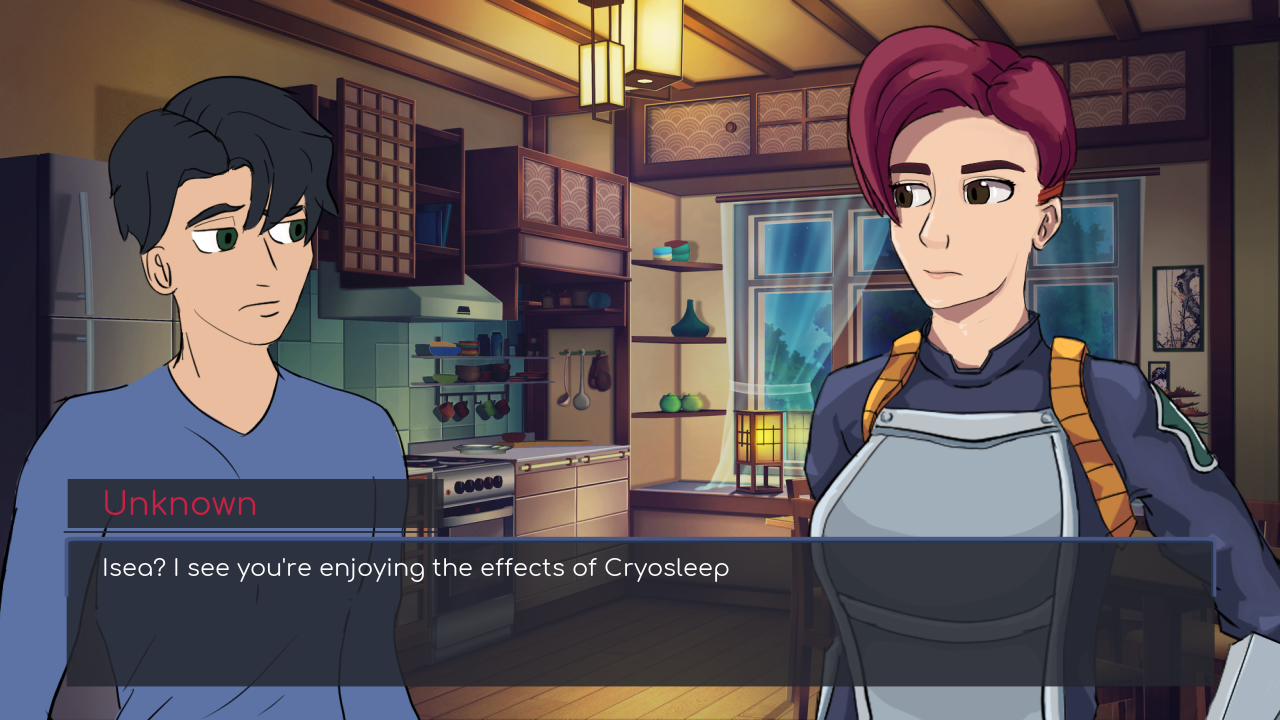
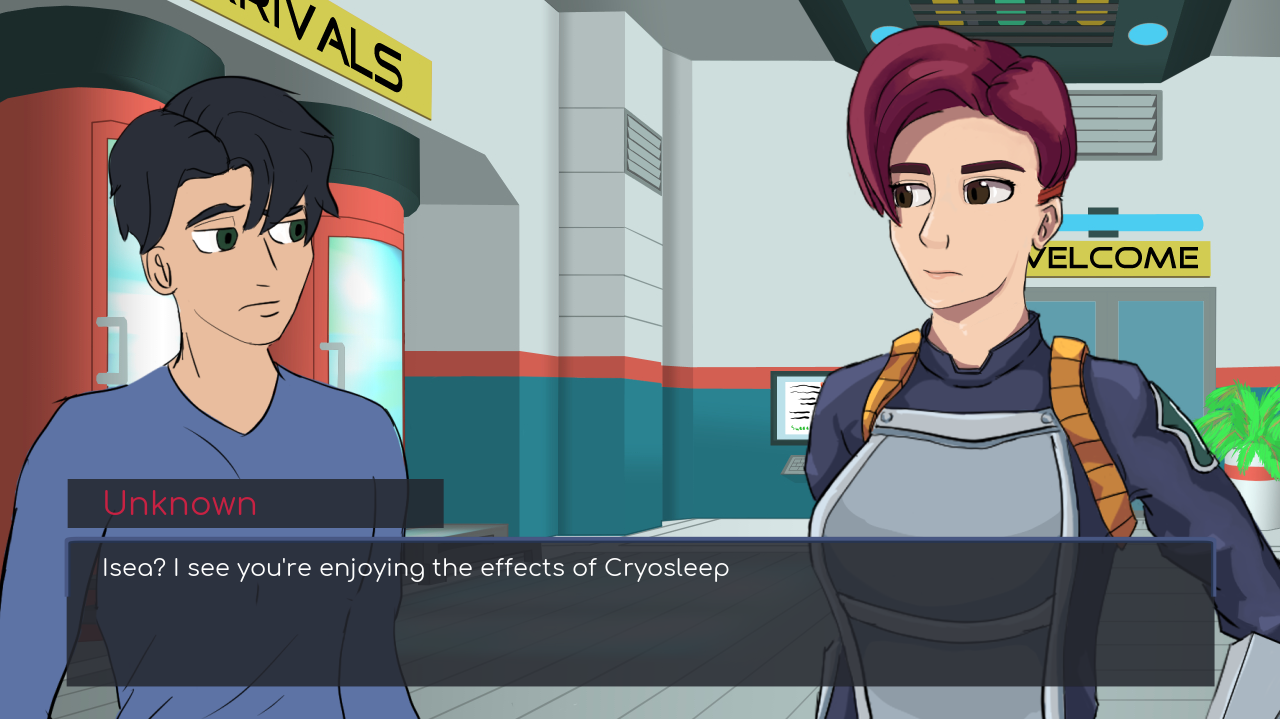
-Updating readme -Adding new progress images

diff --git a/README.md b/README.md
@@ -6,12 +6,12 @@
 *I do not own the background in the above photo, and am merely using it as a placeholder. The rightful owner is the talented:*<br/>
 *https://www.deviantart.com/aikosanartist*
 
-The GVNEngine is a visual novel / dating simulator game engine created in Python, using the PyGame framework. It is meant as a lightweight, user-friendly engine that offers a content-driven workflow that gets developers right into the action.
+The GVNEngine is a visual novel / dating simulator game engine created in Python, using the PyGame framework. It is meant as a lightweight, user-friendly engine that offers a content-driven workflow that lets developers focus more on making games, and less on worrying about coding them.
 
 # How to Use the 'GVNEngine'?
 Currently, the GVNEngine is heavily in development, and not setup for installation quite yet. However, if you're interested in playing with the engine while it's in development, please contact the developer Garrett Fredley at:<br/>
 https://twitter.com/SomeCronzaGuy (Professional Twitter) :shipit: <br/>
-https://twitter.com/Nixenneth (Private Twitter) :underage:
+https://twitter.com/Nixenneth (Artist Twitter) :art:
 
 # License
 The GVNEngine is licensed under the Open-Source MIT license. Details can be found in the `LICENSE.txt` file in `/GVNEngine`. Basically, enjoy the engine to it's fullest, and make games without worrying about whether you're allowed to muck around in the source code :smiley:
@@ -19,38 +19,86 @@ The GVNEngine is licensed under the Open-Source MIT license. Details can be foun
 # Features
 
 ## Content-Driven Workflow
-The GVNEngine uses YAML for many of it's content files. YAML is a powerful data language built around the concept of human readability. In the engine, YAML is used for all of the following things:
+The GVNEngine is designed to allow developers to focus more on developing games without worrying about knowing how to code. It makes use of a data language called YAML, which was designed for human readability to simplify the process of creating all sorts of content, such as:
+
+YAML is used to allow developers to design and implement the following types of content:
 - Scenes
 - Dialogue sequences
-- Renderables (Objects, interactables, etc)
+- Renderables (Objects, interactables, buttons, etc)
+- Effects (Fades, scene transitions, etc)
 
-The GVNEngine is designed to allow users to stick primarily to authoring content in these YAML files without having to deal with much python code. Here is an example of a Point & Click scene YAML file:
+Here is an example of a 'Point & Click' scene created using YAML:
+![ScreenShot](Progress_Examples/GVNEngine_v02_Main_Menu_Scene_01.png?raw=true "GVNEngine Main Menu Scene")
 ```
 type: 'PointAndClick'
-background: "Content/Sprites/Backgrounds/Classroom_01.jpg"
+background: "Content/Sprites/Backgrounds/Background_Space_01_1280.jpg"
 
 interactables:
-  - data: "Content/Objects/Brown_Bag.yaml"
+  - type: "button"
+    data: "Content/Objects/Interface/Main_Menu_Start_Button.yaml"
     position:
-      x: 0.65
-      y: 0.70
+      x: 0.5
+      y: 0.5
+    center_align: True
     z_order: 0
-    key: "BrownBag"
+    text: "Start Game"
+    font: 'Content/Fonts/Comfortaa/Comfortaa-Regular.ttf'
+    font_size: 16
+    text_color: [255, 255, 255]
+    text_position:
+      x: 0.5
+      y: 0.5
+    text_center_align: True
+    text_z_order: 100
+    key: "Main_Menu_Start_Button"
+    
+  - type: "button"
+    data: "Content/Objects/Interface/Main_Menu_Exit_Button.yaml"
+    position:
+      x: 0.5
+      y: 0.65
+    center_align: True
+    z_order: 0
+    text: "Quit Game"
+    font: 'Content/Fonts/Comfortaa/Comfortaa-Regular.ttf'
+    font_size: 16
+    text_color: [255, 255, 255]
+    text_position:
+      x: 0.5
+      y: 0.65
+    text_center_align: True
+    text_z_order: 100
+    key: "Main_Menu_Exit_Button"
 
-objects:
-  - sprite: "Content/Sprites/Objects/Spreadsheet.png"
+text:
+  - text: "To Infinity"
+    text_size: 72
+    text_color: [240, 240, 240]
+    font: 'Content/Fonts/Comfortaa/Comfortaa-Regular.ttf'
+    center_align: True
     position:
-      x: 0.20
-      y: 0.70
-    z_order: 0
-    key: "SpreadSheet"
+      x: 0.5
+      y: 0.3
+    z_order: 500
+    key: "Title"
+
+  - text: "GVNEngine v0.1 - 'To Infinity' Project Example"
+    text_size: 16
+    text_color: [255, 255, 255]
+    font: 'Content/Fonts/Comfortaa/Comfortaa-Regular.ttf'
+    center_align: False
+    position:
+      x: 0.01
+      y: 0.95
+    z_order: 9999
+    key: "VersionIdentity"
 ```
 Additional examples of how to create the various YAML files for the engine are provided as a part of the repo.
 
 ## Action Manager
-The Action Manager system is a flexible system used by the GVNEngine in order to scale to meet any potential number of possible actions the developer may want to perform. Actions are defined as functions in the `actions.py` file. When an action is requested by anything in the engine (Scenes, interactables, etc), it looks to this file for the corresponding action.
+In order to allow developers (and the engine) to access any number of possible in-game actions in a flexible, YAML-accessible manner, the Action Manager was developed.
 
-Consider the following:
+'Actions' are defined as classes in the `actions.py` file. When an action is requested, such as by a YAML file (Dialogue, clicking interactables, etc), it looks to this file for the corresponding action class. For example: `class load_scene(Action)`. Once found, it calls it, passing it any additional pieces of information provided. An example of a dialogue YAML block:
 
 ```
 - action: "load_sprite"
@@ -63,9 +111,9 @@ Consider the following:
   zOrder: 0
   wait_for_input: False
 ```
-The above is an example of an action that loads a sprite into the game. The action name is called 'load_sprite'. In the `actions.py` file, there is a corresponding `def load_sprite` function. The engine is capable of correlating these strings to the functions found in the `actions.py` file. 
+The above is an example of an action that loads and adds a sprite to be rendered. The action name is called 'load_sprite'. In the `actions.py` file, there is a corresponding `class load_sprite(Action)` class. The engine is capable of correlating these strings to the classes found in the `actions.py` file. 
 
-Additionally, each action is fed the entire data block of that action. In the example above, we see that various parameters such as 'flip' are provided. Actions are capable of acting on any data provided. For the above `load_sprite` action which is one of the provided engine default actions, flip is used in the action function to flip the sprite when it is drawn to the screen.
+Additionally, each action is fed the entire data block that was provided when it was called. In the example above, we see that various parameters such as 'flip' are provided. For the above `load_sprite` action, which is one of the provided engine default actions, flip is used to flip the sprite when it is drawn to the screen.
 
 # GVNEditor
 :warning: *This feature is heavily in development, and will most likely be a while before its release
